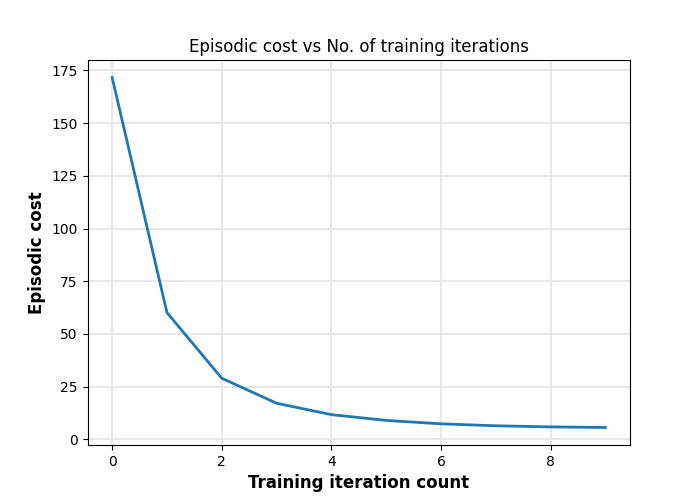
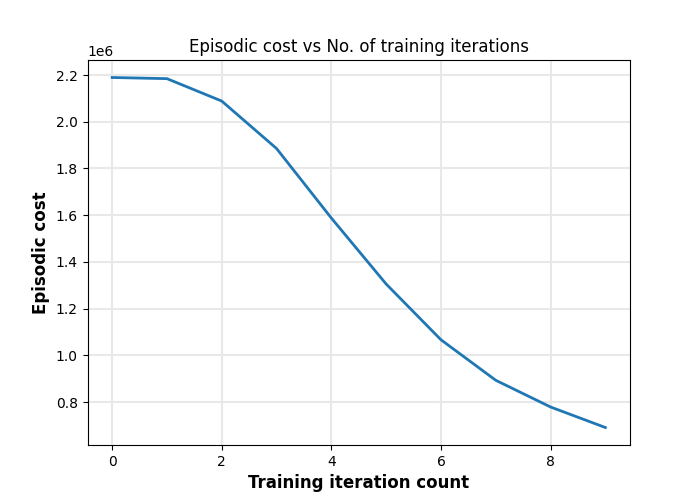
trying vdp

diff --git a/examples/vdp/vdp_params.py b/examples/vdp/vdp_params.py
@@ -18,19 +18,19 @@ dt = 0.1
 horizon = 20 #800
 nominal_init_stddev = 0.1
 
-q = 1
-q_u = 1
+q = 2
+q_u = 2
 alpha = 0.7
 
 C = np.eye(2)
-# C = np.array([1.0, 0]).reshape(1,2)
+C = np.array([1.0, 0]).reshape(1,2)
 n_z = C.shape[0]
 
 n_aug = n_z*q+control_dimension*(q_u-1)
 Q_aug = np.zeros((n_aug, n_aug))
-Q_aug[0:n_z,0:n_z] = Q[0:n_z,0:n_z]
-# qv = 9.0
-# Q_aug[0:2,0:2] = np.array([[9+qv,-qv],[-qv,qv]])
+# Q_aug[0:n_z,0:n_z] = Q[0:n_z,0:n_z]
+qv = 9.0
+Q_aug[0:2,0:2] = np.array([[20+qv,-qv],[-qv,qv]])
 Q_final_aug = 1000*Q_aug
 
 # Cost parameters for feedback design

diff --git a/src/main_pod_ilqr.py b/src/main_pod_ilqr.py
@@ -69,7 +69,7 @@ class POD_iLQR(iLQR):
         """
         Carry out the backward pass to compute the feedforward and feedback gains
         returns : backward_pass_flag : indicates if backward pass was successful
-                  del_J_alpha : expected cost reduction
+        del_J_alpha : expected cost reduction
         """
         ################## defining local functions & variables for faster access ################
         k = np.copy(self.k)

diff --git a/examples/vdp/run_vdp_pod_ilqr.py b/examples/vdp/run_vdp_pod_ilqr.py
@@ -3,7 +3,6 @@ import sys
 import os
 from pathlib import Path
 
-
 # import Iterative_LQR
 # from Iterative_LQR.src.main_ilqr import iLQR
 
